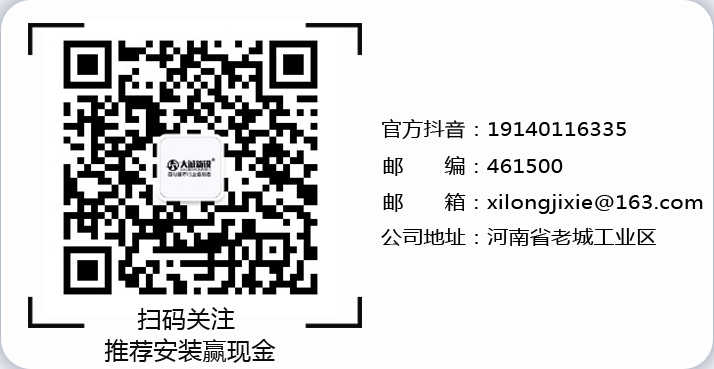
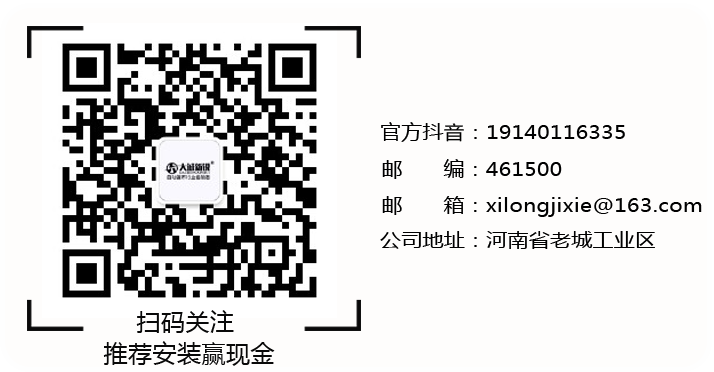
界面优化

diff --git a/src/Connected.js b/src/Connected.js
@@ -69,7 +69,9 @@ export default class Connected extends React.Component {
       <View style={{ flex: 1, backgroundColor: '#0C2F76' }}>
         <ScrollView>
           <View style={styles.topView}>
-            <Image style={styles.image1} source={require('./assets/qrcode.png')}/>
+            <View style={styles.imageView}>
+              <Image style={styles.image1} source={require('./assets/qrcode.png')}/>
+            </View>
             <View style={styles.topSubView}>
               <Image style={styles.image} source={require('./assets/header.png')}/>
             </View>
@@ -99,6 +101,7 @@ export default class Connected extends React.Component {
               <CusButton onPress={()=>this.updateSettingModel('444440')} title="时间-"></CusButton>
             </View>
           </ImageBackground>
+          <Text style={styles.company}>河南大诚自动篷布技术有限公司</Text>
         </ScrollView>
       </View>
     )
@@ -224,12 +227,20 @@ const styles = StyleSheet.create({
   },
   image: {
     width: screenW,
-    height: screenW * 310 / 750
+    height: screenW * 310 / 750,
+  },
+  imageView: {
+    marginTop: 5,
+    zIndex: 10,
+    shadowColor: '#000',
+    elevation: 5,
+    shadowOffset: {width: 0, height: 0},
+    shadowOpacity: 0.5,
+    shadowRadius: 5,
   },
   image1: {
-    zIndex: 10,
-    marginLeft: 18,
-    width: screenW - 36,
+    marginLeft: 10,
+    width: screenW - 20,
     height: screenW * 369 / 714,
     resizeMode: 'contain'
   },
@@ -243,5 +254,16 @@ const styles = StyleSheet.create({
     display: 'flex',
     flexDirection: 'column',
     justifyContent: 'space-around',
+  },
+  company: {
+    fontSize: 18,
+    fontWeight: '500',
+    width: screenW,
+    paddingLeft: 18,
+    paddingRight: 18,
+    marginTop: 10,
+    color: '#fff',
+    textAlign: 'center',
+    letterSpacing: 3
   }
 })
